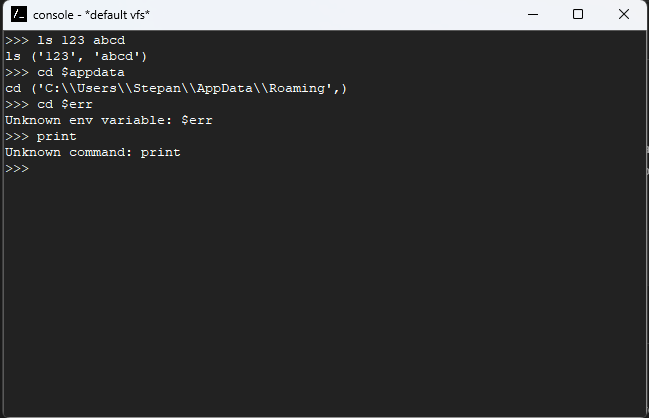
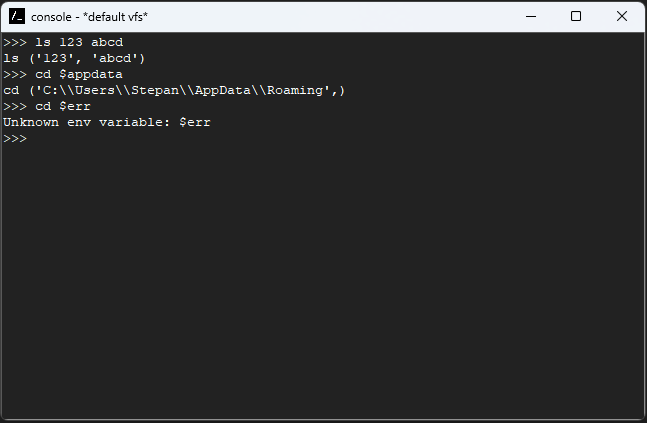
Fixed stage 1 and 2

Changed region(s): [[0.0, 0.0, 1.0, 1.0], [0.9892, 0.3421, 1.0, 0.3732]]

diff --git a/console.py b/console.py
@@ -18,10 +18,16 @@ def pause ():
     print("Press enter to continue")
     input()
 
-def run (line):
+def parse_cmd_line (line):
     line = line.split()
-    if not line: return
+    if not line: return None, None
     cmd, *args = line
+    if cmd.startswith("$"):
+        env = os.getenv(cmd[1:])
+        if env: cmd = env
+    return cmd, args
+
+def run (cmd, args):
     if not cmd in cmds:
         print(f"Unknown command: " + cmd)
         return
@@ -51,20 +57,25 @@ if __name__ == "__main__":
             path = argv.script 
             sys.stdin = open(path)
             runsScript = True
-        while True:
-            try:
-                inp = input(">>> ")
-                if runsScript: print(inp)
-                run(inp)
-            except EOFError:
-                runsScript = False
-                sys.stdin = defaultStdin
-                inp = input()
-                run(inp)
     except ArgumentError as err:
         print(err)
         pause()
+        exit()
     except FileNotFoundError:
         print("Can't access file:", path)
         pause()
-    exit()
+        exit()
+    while True:
+        try:
+            if runsScript:
+                inp = input()
+                cmd, args = parse_cmd_line(inp)
+                if not cmd in cmds:
+                    continue
+                print(">>> " + inp)
+            else:
+                cmd, args = parse_cmd_line(input(">>> "))
+            run(cmd, args)
+        except EOFError:
+            runsScript = False
+            sys.stdin = defaultStdin

diff --git a/readme.md b/readme.md
@@ -15,7 +15,7 @@ python console.py
 ## Этап 2
 ### Список изменений:
 1. Добавлена поддержка аргументов командной строки
-2. Добавлен аргумент ```--script | -s``` (выполняет команды из указанного файла)
+2. Добавлен аргумент ```--script | -s``` (выполняет команды из указанного файла, игнорируя ошибочные строки)
 3. Добавлен аргумент ```--vfs-path | -v``` (указывает путь к виртуальной файловой системе)
 
 ### Демонстрация работы:
